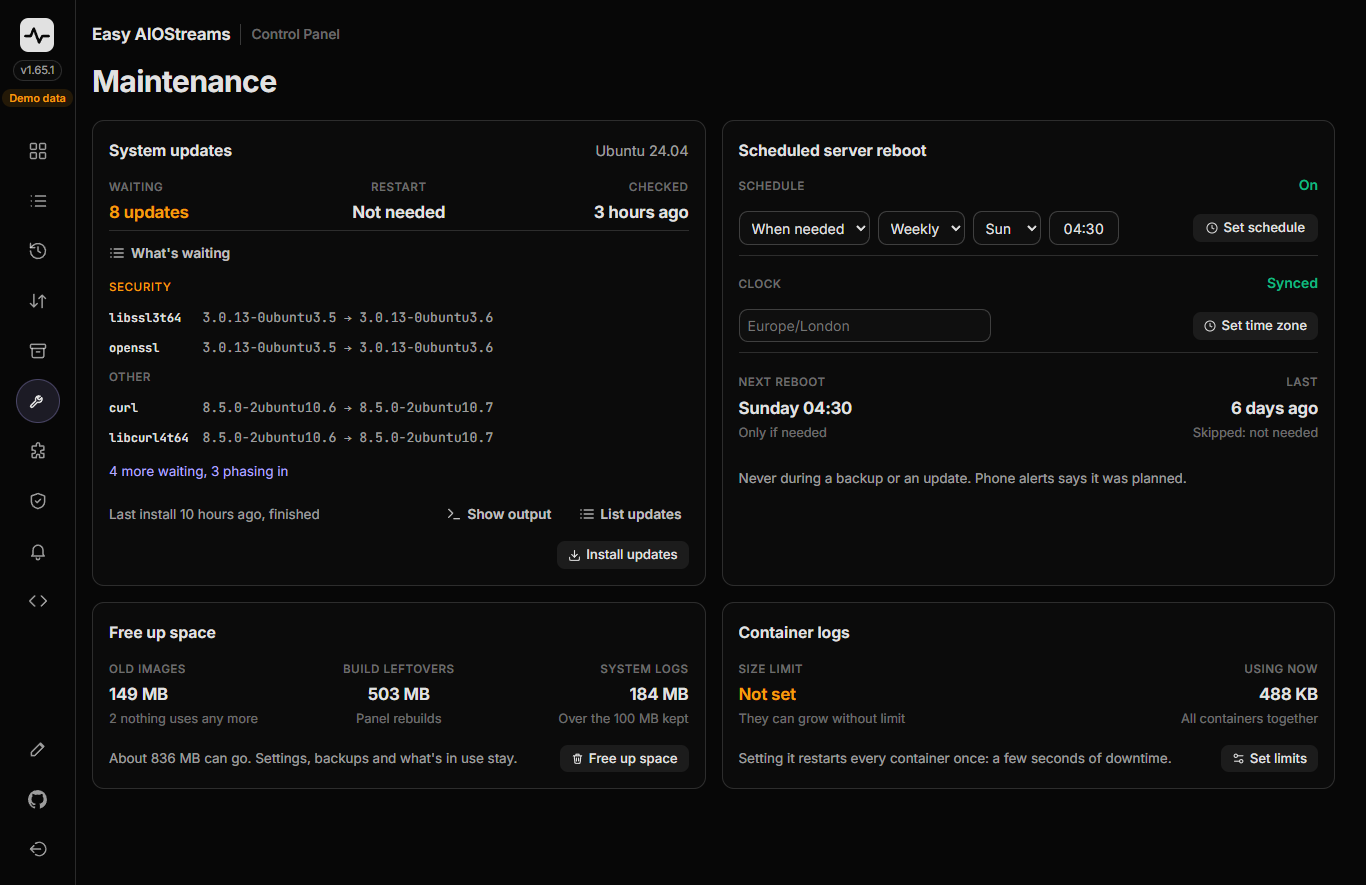
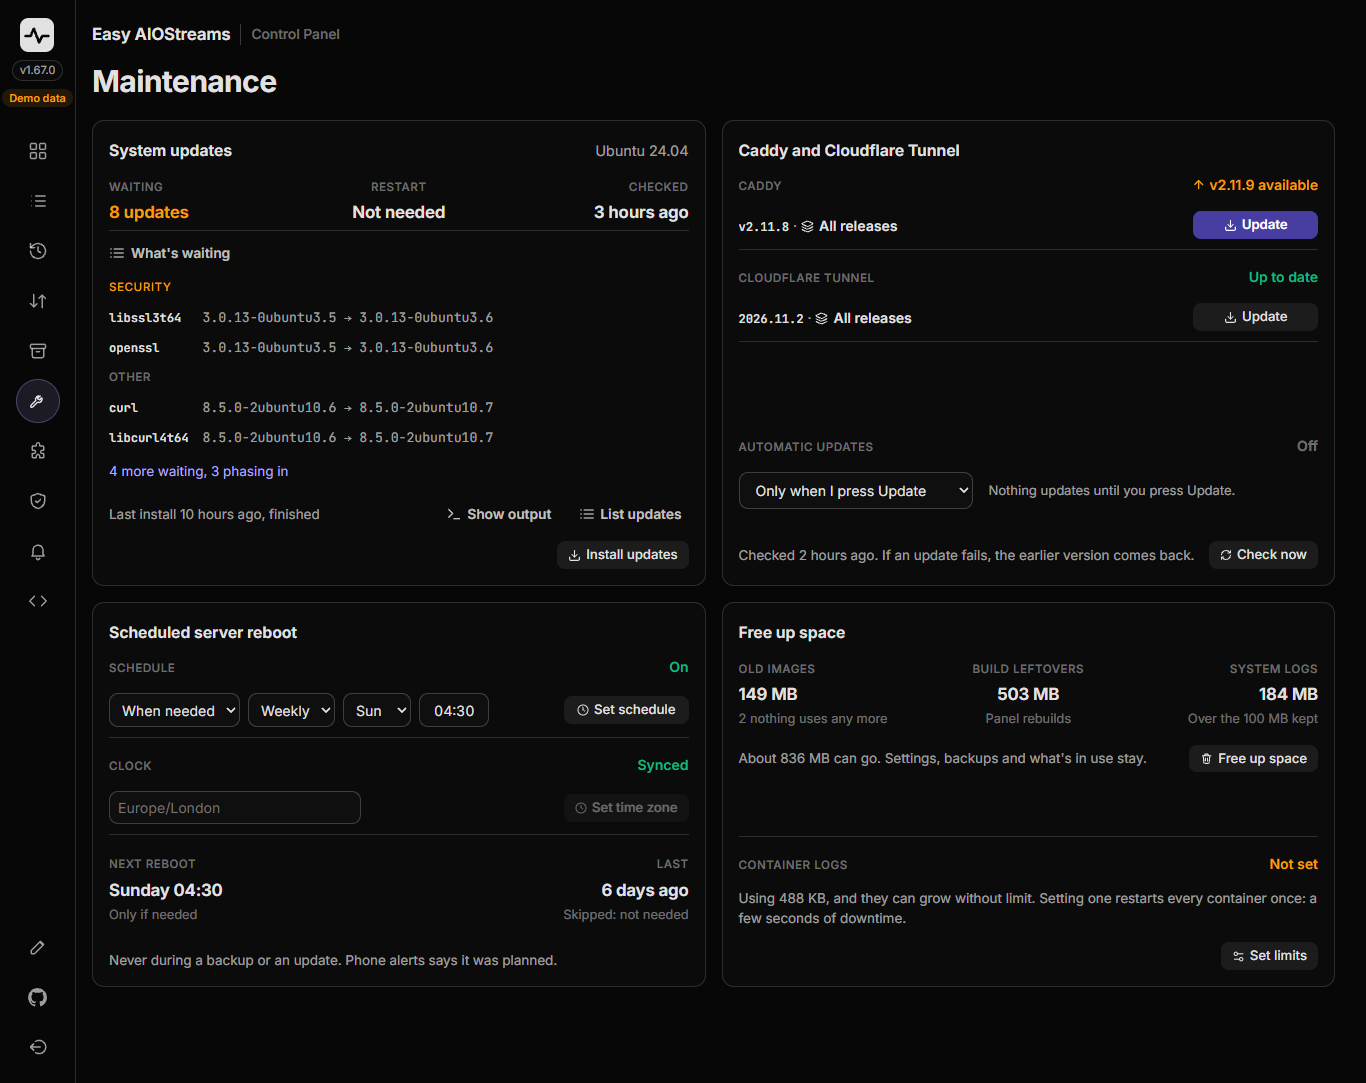
Docs: retake the Maintenance screenshot for the Caddy and Cloudflare Tunnel card

diff --git a/CHANGELOG.md b/CHANGELOG.md
@@ -4,6 +4,7 @@ Notable changes to easy-aiostreams, newest first. Control panel versions are in 
 
 ## 24 November 2026
 
+- **Docs:** The Maintenance screenshot in the advanced control panel guide is retaken for panel 1.67.0, showing the new Caddy and Cloudflare Tunnel card.
 - Maintenance: a new Caddy and Cloudflare Tunnel card shows the release each one runs, says when a newer one is out (with its release notes), and has an Update button for each. If the new one doesn't answer or connect, the earlier one comes back. They can also update by themselves once a month, off unless you choose it, and Activity lists each automatic run. The Overview's update pill now covers these and security updates too, naming the most important with "+N" for the rest, and a tap lists them all. Container logs moved to the foot of Free up space. (Panel 1.67.0, [#228](https://github.com/alpinezx/easy-aiostreams/pull/228))
 - **Fixed:** Phone alerts: right after Start, the page no longer shows the old amber "STOPPED" line beside Watching. It says the first check is running until that check finishes. (Panel 1.66.1, [#227](https://github.com/alpinezx/easy-aiostreams/pull/227))
 - **Fixed:** Phone alerts: starting the watchdog again no longer reports a restart or scheduled backup from while it was stopped (it sent an alert, and timed the restart from when it was stopped). Only what happens after Start is reported; Activity already lists the rest. ([#227](https://github.com/alpinezx/easy-aiostreams/pull/227))

diff --git a/docs/advanced/control-panel.md b/docs/advanced/control-panel.md
@@ -157,7 +157,7 @@ It appears once the [watchdog](./watchdog.md) is set up over SSH (first-time set
 
 ## Maintenance page
 
-![The Maintenance page](../images/control-panel/maintenance.png)
+![The Maintenance page: system updates, Caddy and Cloudflare Tunnel versions with Update buttons, the scheduled reboot and Free up space](../images/control-panel/maintenance.png)
 
 Read when the page opens and kept for 5 minutes.
 
